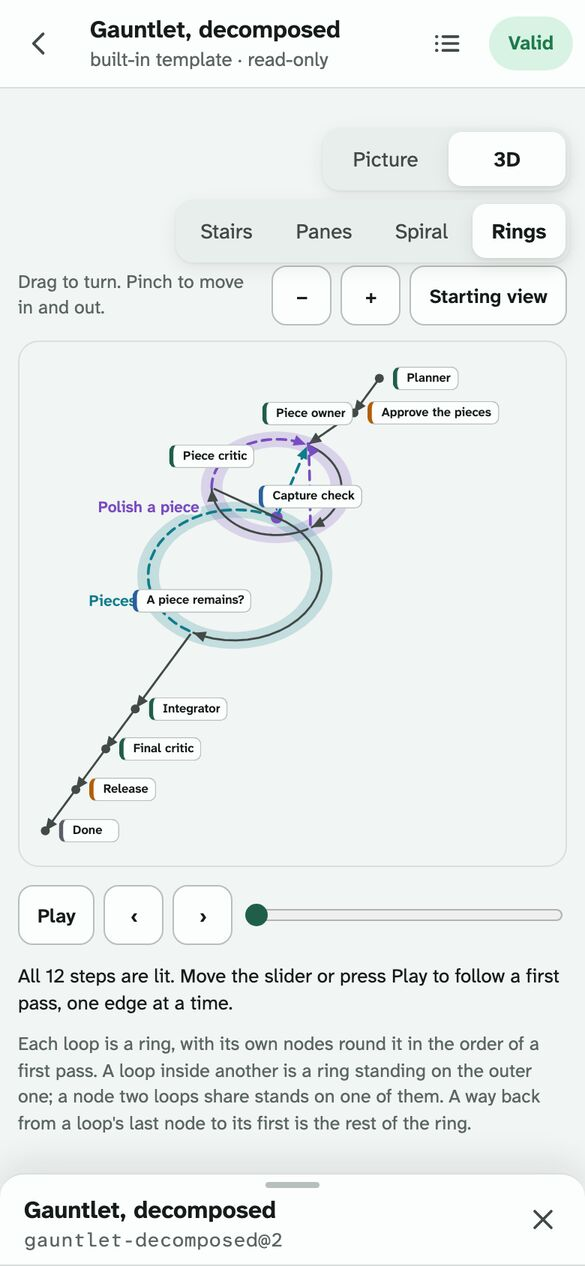
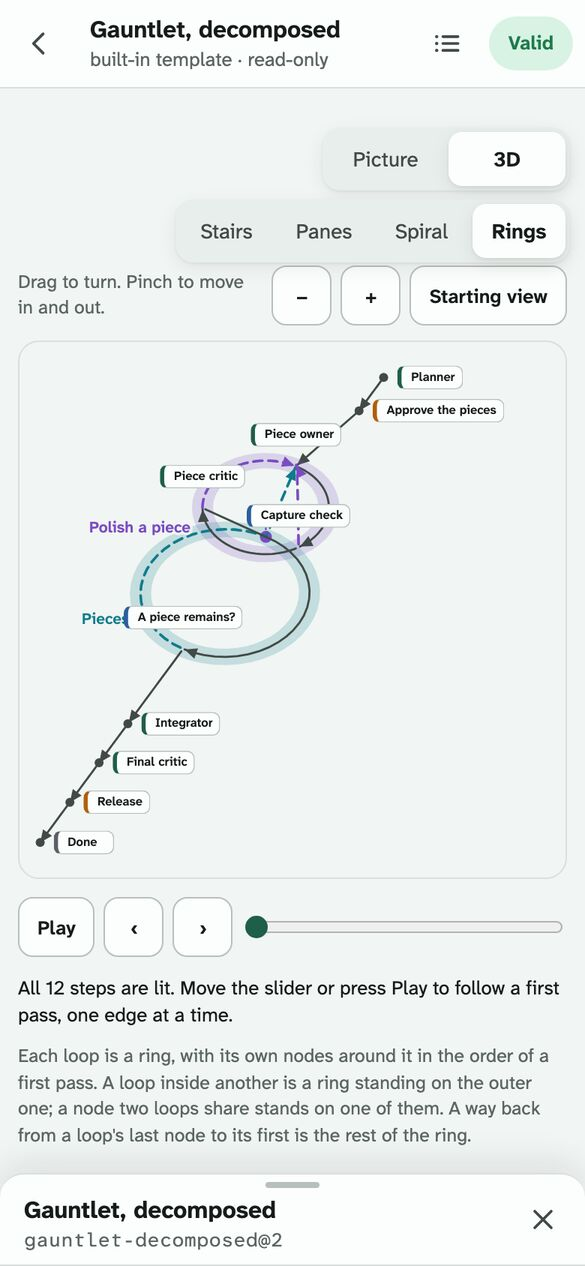
web: rings after a third read: a card on a ring has its room in a narrow frame too, a bowed edge is looked at again for what it has been brought to, the ground before a ring whose first station is a ring leaves room for that ring's raised card; the docs say what a graph with no loop keeps and what a

Changed region(s): [[0.0308, 0.7085, 0.9538, 0.9242], [0.0615, 0.2773, 0.8615, 0.6777], [0.4, 0.7085, 0.9538, 0.7393]]

diff --git a/apps/web/test/graph-stage.test.ts b/apps/web/test/graph-stage.test.ts
@@ -1143,9 +1143,39 @@ describe("rings", () => {
     const under = drawn.prims.flatMap((p) => (p.t === "dot" && p.r === 4 ? [p.at] : []))[0]!;
     expect(foot.inside).toBe("outer");
     expect(Math.abs(level("ge", under))).toBeGreaterThan(30);
+    // Going round one node can bring an edge to another that was never on the straight line: a loop of six, and
+    // an edge along the ground past it. Bowed, it is looked at again: nowhere within 40 of any station, seen from above.
+    const six = ["n0", "n1", "n2", "n3", "n4", "n5"];
+    const past = { ...base, nodes: ["g", ...six, "end"].map(node), edges: [{ id: "g0", from: "g", to: "n0" }, ...six.slice(1).map((id, k) => ({ id: `e${k}`, from: six[k]!, to: id })), { id: "back", from: "n5", to: "n0", when: "fail" }, { id: "out", from: "n5", to: "end", when: "pass" }, { id: "by", from: "g", to: "end" }], loops: [loopOf("six", six, ["back"])] } as unknown as Graph;
+    for (const narrowly of [false, true]) {
+      const around = rings(modelAt(past, places(past), undefined, narrowly), whole);
+      const by = around.path("by");
+      expect(by).toHaveLength(19);
+      for (const id of six) {
+        const o = around.node(id);
+        const nearest = Math.min(...by.slice(1).map((b, k) => {
+          const [dx, dz, wx, wz] = [b[0] - by[k]![0], b[2] - by[k]![2], o[0] - by[k]![0], o[2] - by[k]![2]];
+          const t = Math.max(0, Math.min(1, (wx * dx + wz * dz) / (dx * dx + dz * dz || 1)));
+          return Math.hypot(wx - dx * t, wz - dz * t);
+        }));
+        // (Before, it ran 2 from the fifth station. Where it is level with a station it is the card's room from
+        // it; a card's corner can still be nearer than that elsewhere along it.)
+        expect(nearest, `${id}, narrow ${narrowly}`).toBeGreaterThan(40);
+      }
+    }
+    // A ring's first station that is a ring of its own has its first card 64 higher, which is drawn over ground
+    // farther back: the node on the ground before it stands clear of that too. The glyph vocabulary's docs and Build.
+    const glyphs = graph("fixtures/valid/glyph-vocabulary.grooph.json");
+    const seen = rings(modelAt(glyphs, places(glyphs)), whole);
+    expect([seen.node("build")[1], seen.node("docs")[1]]).toEqual([64, 0]);
+    expect(seen.node("build")[2] - 55 - seen.node("docs")[2]).toBeGreaterThanOrEqual(100);
+    // An edge from the outermost of three rings to a node of the innermost goes along the outer ring to the place
+    // the middle one stands at: that node's own loop is under the one that is the station.
+    const three = { ...base, nodes: ["a", "b", "c", "d"].map(node), edges: [{ id: "ab", from: "a", to: "b" }, { id: "bc", from: "b", to: "c" }, { id: "cd", from: "c", to: "d" }, { id: "dc", from: "d", to: "c", when: "fail" }, { id: "db", from: "d", to: "b", when: "blocked" }, { id: "da", from: "d", to: "a", when: "invalid-evidence" }, { id: "ac", from: "a", to: "c", when: "pass" }], loops: [loopOf("in", ["c", "d"], ["dc"]), loopOf("mid", ["b", "c", "d"], ["db"]), loopOf("out", ["a", "b", "c", "d"], ["da"])] } as unknown as Graph;
+    expect(rings(modelAt(three, places(three)), whole).path("ac").length).toBeGreaterThan(25);
     // A node's own way back, in a loop of two: a round of 26 beside the node, away from the ring's middle, that
     // starts and ends at the node. Not a stick up and down.
-    const selfish = { ...up, edges: [...up.edges, { id: "aa", from: "a", to: "a", when: "blocked" }], loops: [loopOf("l", ["a", "b"], ["ba", "aa"])] } as unknown as Graph;
+    const selfish = { ...up, edges: [...up.edges, { id: "aa", from: "a", to: "a", when: "blocked" }, { id: "aa2", from: "a", to: "a", when: "invalid-evidence" }], loops: [loopOf("l", ["a", "b"], ["ba", "aa", "aa2"])] } as unknown as Graph;
     const own = rings(modelAt(selfish, places(selfish)), whole);
     const round = own.path("aa");
     const a = own.node("a");
@@ -1153,6 +1183,8 @@ describe("rings", () => {
     expect([round[0], round[24]].map((v) => v!.map((x) => Math.round(x)))).toEqual([a, a].map((v) => v.map((x) => Math.round(x))));
     expect(new Set(round.map((v) => v[1])).size).toBe(1);
     expect(Math.round(Math.max(...round.map((v) => Math.hypot(v[0] - a[0], v[2] - a[2]))))).toBe(52);
+    // A second one is a larger round, 8 out from the first all the way.
+    expect(Math.round(Math.max(...own.path("aa2").map((v) => Math.hypot(v[0] - a[0], v[2] - a[2]))))).toBe(68);
   });
 
   it("held against one-line changes: an edge to the next station is an arc of the smallest ring both ends are on, only that loop's own way back closes it, twins are outside and higher, rings on a ring stand clear, nothing on the ground is in a ring, and a ring's name is outside it at the near left", () => {

diff --git a/apps/web/src/ui/canvas/stage/rings.ts b/apps/web/src/ui/canvas/stage/rings.ts
@@ -63,8 +63,11 @@ export const rings: View = (m, shown) => {
     else if (item.loop) {
       // Room for the ring and for every ring that stands on it, and for the card of its first station, which
       // stands over where the node before the ring would otherwise be: no node on the ground is inside a ring.
+      // More where its first station is a ring of its own: that ring's first card is drawn 64 higher, which from
+      // where the view starts is over ground 55 farther back.
       const r = reach(item.loop) + 6;
-      z += z ? 56 : 0;
+      const raised = (loop: MLoop): number => ((first) => (first ? 55 + raised(first) : 0))(stations(m, loop)[0]?.loop);
+      z += z ? 56 + raised(item.loop) : 0;
       place(item.loop, [0, 0, z + r]);
       z += 2 * r + 58;
     }
@@ -76,21 +79,31 @@ export const rings: View = (m, shown) => {
   // apart from the first: outside it on the ring, or higher.
   const station = (stops: Stop[], id: Id): number => stops.findIndex((stop) => stop.node === id || (!!stop.loop && (by(m.nodes, id).loop === stop.loop.id || under(m.loops, by(m.nodes, id).loop ?? "", stop.loop.id))));
   const taken = (id: Id): boolean => shown.took.some((x) => x.edge === id && (shown.k === 0 || x.step <= shown.k));
-  // How far aside an edge from p to q goes to be clear of what a straight line would run through, seen from above
-  // (an edge that rises to a ring on a ring runs over what stands under it): each node other than its ends, by the
-  // room its card takes (a card on a ring stands over its node, to both sides; one on the ground is to the right).
-  // The foot of a ring that stands on another is under that ring's first node, so an edge along the ground goes
-  // round it with the node. The bow is widest at its middle, so a thing nearer an end asks for more of it, to be
-  // as clear where it stands.
-  const need = (o: V, p: V, q: V, clear: number): number => {
+  // How far aside an edge from p to q goes to be clear of what a straight line would run through, seen from where
+  // the view starts: each node other than its ends, by the room a card takes there (62 on a ring, where it stands
+  // over its node, to both sides; 34 on the ground, where it is to the right). The foot of a ring that stands on
+  // another is under that ring's first node, so an edge along the ground goes round it with the node. The bow is widest at
+  // its middle, so a thing nearer an end asks for more of it, to be as clear where it stands; and once it is
+  // bowed, the edge is looked at again for what it has been brought to.
+  const need = (n: { id: Id; loop: Id | null }, p: V, q: V, out: number | null): number => {
+    const o = at[n.id]!;
     const [dx, dz, wx, wz] = [q[0] - p[0], q[2] - p[2], o[0] - p[0], o[2] - p[2]];
-    const t = Math.max(0, Math.min(1, (wx * dx + wz * dz) / (dx * dx + dz * dz || 1)));
-    // (By as much more as the thing is off the line: it may be on the side the edge goes to.)
-    const off = Math.hypot(wx - dx * t, wz - dz * t);
-    return off < 24 ? (clear + off) / Math.max(0.36, 4 * t * (1 - t)) : 0;
+    const far = Math.hypot(dx, dz) || 1;
+    const t = Math.max(0, Math.min(1, (wx * dx + wz * dz) / (far * far)));
+    // How far off the line it is, toward the side the edge goes to (the left); and how near the edge is to it.
+    const off = ((wz - dz * t) * dx - (wx - dx * t) * dz) / (dz < 0 ? -far : far);
+    // (A straight line counts a node within 24 of it. A bowed one is held to all but the last of the room: it has
+    // left where it would have run, and what it is near now is a card.)
+    const room = n.loop ? 62 : 34;
+    const near = out === null ? Math.hypot(wx - dx * t, wz - dz * t) + room - 24 : t > 0.06 && t < 0.94 ? Math.abs(off - out * 4 * t * (1 - t)) + 6 : room;
+    return near < room ? (room + (out === null ? Math.abs(off) : off)) / Math.max(0.36, 4 * t * (1 - t)) : 0;
   };
-  const passes = (e: { from: Id; to: Id }, p: V, q: V): number =>
-    m.nodes.reduce((sum, n) => sum + (n.id !== e.from && n.id !== e.to ? need(at[n.id]!, p, q, n.loop && !m.narrow ? 62 : 34) : 0), 0);
+  const passes = (e: { from: Id; to: Id }, p: V, q: V): number => {
+    const others = m.nodes.filter((n) => n.id !== e.from && n.id !== e.to);
+    let out = others.reduce((sum, n) => sum + need(n, p, q, null), 0);
+    for (const n of out ? [...others, ...others, ...others] : []) out = Math.max(out, need(n, p, q, out));
+    return out;
+  };
   m.edges.forEach((e, n) => {
     const [p, q] = [at[e.from]!, at[e.to]!];
     const twin = m.edges.slice(0, n).filter((x) => x.from === e.from && x.to === e.to).length;

diff --git a/docs/exports.md b/docs/exports.md
@@ -64,7 +64,7 @@ A tap on a card does what a tap on its node does on the canvas. The canvas keeps
 
 - **Spiral.** Each loop is a spiral: a round is one turn upward, and a brake that counts rounds is a place on the way up. The lid stands where max iterations stops the loop: over the last round it allows (rounds number from 0, so a cap of 5 is a lid over round 4). A person asked every so many rounds is an amber ring after each of those rounds, for each such stop a loop has; at the lid's own height there is one, inside the lid, only where the person's stop is listed before the cap, since the stops are looked at in the document's order, and where that leaves a stop with no ring the words say why. A budget in dispatches is a dashed ring where it runs out if every round is a full one, counted as the compiler tells a lead to count a round. It is a reading, not a ceiling: a round cut short costs less and one with a second dispatch more; it is said as "at most" so many full rounds, and drawn where it is no more than a round and a half over the top of the drawing. Every brake of a loop is said in words under the view, in the document's order, where a screen reader has them too: the tightest cap as the lid, the least budget in dispatches as the ring, and one with no place on the way up (a budget in minutes, turns or dollars; a person who is not asked by the round) as having none. A loop inside another is a spiral of its own beside it, because its rounds start afresh each time the outer one comes round; a node two loops share without one being inside the other stands on one of them (the smaller, or the first in the document) and is named at its place on the other. The stations of a turn are a loop's nodes in the order of a first pass; an edge from one station to the next is the spiral itself, and every other edge between a loop's nodes (a fan out, a fan in) is drawn across it. On a run's page each spiral is solid as far up as the run has been, says the round the run is in there, and has a bead for each dispatch so far in the round it was in, green for a pass, amber for a fail and gray for anything else; two dispatches at one place, which a loop that started afresh has, are set side by side. An edge the run took is drawn between the rounds it took it, as often as it took it, and one it never took is faint; a way back that crosses from one loop's spiral to another's, through a node the two share, arrives in the round that loop is in. A note about an edge lights the edge where it is drawn and is not shown as a move, and two notes of one visit to a node, the first not yet ended, are not a move either. Where a note names no round it is worked out from the edge taken: a loop's way back is its next round, wherever in the loop it lands, and every loop inside it, at any depth, starts again at round 0. A way back that is another loop's does not turn a spiral it only crosses. (The sentence over a whole run ends with core's own line, which counts a loop's rounds by its loop notes, the rounds that have ended; the words over a spiral are the round the run is in, which is one more while a round is under way, and for a run whose notes name no round the two can differ further.) The lid is never lit with its loop: looking at a loop fires no cap. A node in no loop stands on the ground by its name alone, and a graph with no loop has no spiral and says so. In a frame a phone's width (under 640 px: the frame's own width, so a wide window with a template's details beside the view counts, and the layout follows the frame when a panel opens beside it) the spirals stand one under the other, a loop inside another above the loop it is inside and otherwise in the order of a first pass, with the nodes in no loop in the same line above and under them. Two spirals side by side leave each half the frame, and cards do not shrink with them. Every card there is its name alone, as wide as its name, and a tap opens the node as anywhere (a graph with no loop is a column of whole cards, which it has room for); a loop inside another is named at its place as "the spiral above". Stacked, over is along the line, so an edge between a spiral and what is outside it, or between nodes on the ground, goes out to the side instead: round the nodes on the ground between its ends, to the left, where no card stands; round the top of any spiral it passes, lid and turns, so that no edge comes down through a lid; and round the foot of its own spiral where it leaves from a turn or more up, so that an exit taken in a later round comes down outside the turns under it. The side is that of its own end on such a spiral, and the left where a node on the ground is between its ends. (Such an edge can run behind a card that is not its own for part of its way, as Gauntlet's way back from "A piece remains?" does behind Capture check.) Two edges between the same two nodes, where they are drawn across and not along the spiral, are drawn one past the other, in either layout. The frame is made tall enough to leave 7 px between any two cards where its width and its cap let it: at 390 by 844 no two cards of any built-in template touch, and at 360 by 740 two templates are at the margin (Gauntlet, decomposed reaches the cap on the frame's height, and the specialist critic bank has seven cards round one turn in 336 px) and may touch in one browser's text. The spirals, lids and edges are grown once the cards have landed; a reader who asked for less motion has them at once.
 
-- **Rings.** Each loop is a ring lying flat, with its own nodes standing round it in the order of a first pass, the first of them at the far side. (For a loop that fans out, the nodes that run side by side are still in a row round the ring: the order is the layout's, not an order of running.) A loop inside another is a ring of its own standing on the outer one, where its nodes would be: the outer round passes through it; two that stand on one ring stand clear of each other. A node two loops share stands on one of them and is named at its place on the other. What is in no loop stands in a line on the ground in the order of a first pass, by its name alone where there is a loop, and the rings lie along that line where the graph comes to them. An edge from one station to the next is the ring itself; a loop's own way back from its last station to its first is the rest of the ring, which is what closes it; any other edge is drawn across, a way back that cuts the round short as an arch and a fan out as a line, and an edge that would run through a node it has nothing to do with, seen from above, on the ground or on a ring or under a ring that stands on one, goes out to the side round it, by the room that node's card takes where the node stands (to the left of a line on the ground, whichever way the edge runs: a card there is to its node's right). A node's own edge to itself, where it is not the whole ring, is a small round beside the node. Every edge is drawn, and two between the same two nodes are drawn apart: the second outside the first on a ring, or higher. A ring has no height for rounds, and none of a loop's brakes is drawn on it: on a run's page a ring says, beside it, the round the run is in or was last in (one more than the rounds that have ended while a round is under way, as the spiral's words are), and an edge the run has not taken by the note the slider is at is faint. In a frame a phone's width every card is its name alone, as in the spiral.
+- **Rings.** Each loop is a ring lying flat, with its own nodes standing round it in the order of a first pass, the first of them at the far side. (For a loop that fans out, the nodes that run side by side are still in a row round the ring: the order is the layout's, not an order of running.) A loop inside another is a ring of its own standing on the outer one, where its nodes would be: the outer round passes through it; two that stand on one ring stand clear of each other. A node two loops share stands on one of them and is named at its place on the other. What is in no loop stands in a line on the ground in the order of a first pass, by its name alone where there is a loop, and the rings lie along that line where the graph comes to them. An edge from one station to the next is the ring itself; a loop's own way back from its last station to its first is the rest of the ring, which is what closes it; any other edge is drawn across, a way back that cuts the round short as an arch and a fan out as a line, and an edge that would run through a node it has nothing to do with, seen from above, on the ground or on a ring or under a ring that stands on one, goes out to the side round it, by the room a card takes there (62 where it stands over its node on a ring, 34 on the ground; to the left of a line on the ground, whichever way the edge runs: a card there is to its node's right), with a node on a ring that stands on another taken where it is seen from where the view starts, which is over ground farther back; and once bowed the edge is looked at again for what it has been brought to. A node's own edge to itself, where it is not the whole ring, is a small round beside the node. Every edge is drawn, and two between the same two nodes are drawn apart: the second outside the first on a ring, or higher. A ring has no height for rounds, and none of a loop's brakes is drawn on it: on a run's page a ring says, beside it, the round the run is in or was last in (one more than the rounds that have ended while a round is under way, as the spiral's words are), and an edge the run has not taken by the note the slider is at is faint. In a frame a phone's width every card of a graph with a loop is its name alone, as in the spiral (a graph with no loop is a line of whole cards). As a template's page first opens at 390 by 844 or at 360 by 740, no card of any built-in template lies over another. Where a loop's note does not name the stop that fired, a way back whose condition was reported is read as taken, as the notes leave it.
 
 These kinds are drawn on a 2D canvas by one small stage, with no library, and each node's card is a real element placed over the drawing, so a card can be tapped, focused and named as on the stairs. Their slider walks the edges of a first pass and then each way back into a loop, in the stairs' own words, or a run's own notes. Which edges a run took is read from its notes as the contract has a run go: every edge out of a node whose condition is what the node reported, or that has none, is taken, so a node that fans out reaches each of its targets and one that fans in is reached by each of its sources, from every node that has reported a result since the target was last reached; the line before a dispatch is not a result, whether or not the notes carry stamps, and neither it nor a word at a node is a report: it takes back nothing the node reported, and no edge is taken on it; a dispatch is a note at an agent or a check with an outcome, so a word, a proposal or an amendment at a node is not one; a stop is looked at before a way back, so where a loop's note names the stop that fired its way back was not taken, but for a person's stop, which their answer lifts for the dispatch that comes next and for nothing after it (a word at a node between does not spend it, and a run that ends at the halt took no way back); a second `invalid-evidence` in a row in one round routes as a fail; and where no edge is for what was reported, none is shown as taken. A plain note at an edge is the lead's word that the run is on it and is shown at the edge; a proposal or an amendment about an edge is said not to be a move. Where a lead wrote the run's end as a note about the run and none at the stop node, the run's end note shows the arrival there. A round is said by its loop's name, and a dispatch at a node in no loop is in none. What a step moves along is seen to travel over the cards when the slider goes on by one, and is then the lit card; a reader who asked for less motion sees the lit card at once. A group's nesting is read as core reads it (a node listed by a group and by one inside it is the inner one's). A note about the run as a whole, or about an edge, is said in the note's own words and is not shown as a move. They are one piece of the app (`src/ui/canvas/graph-stage.tsx`), fetched when one of them is first chosen and named in the page so the service worker holds it; like the stairs they are Paper in every picture theme. The piece is on no address's first load and has a line of its own in `scripts/perf-budget.json`, 17 KB for all of the kinds together; the switch and the graph's reading, which every address that draws on the canvas fetches once the canvas is drawn, has one too, at 6.
 
